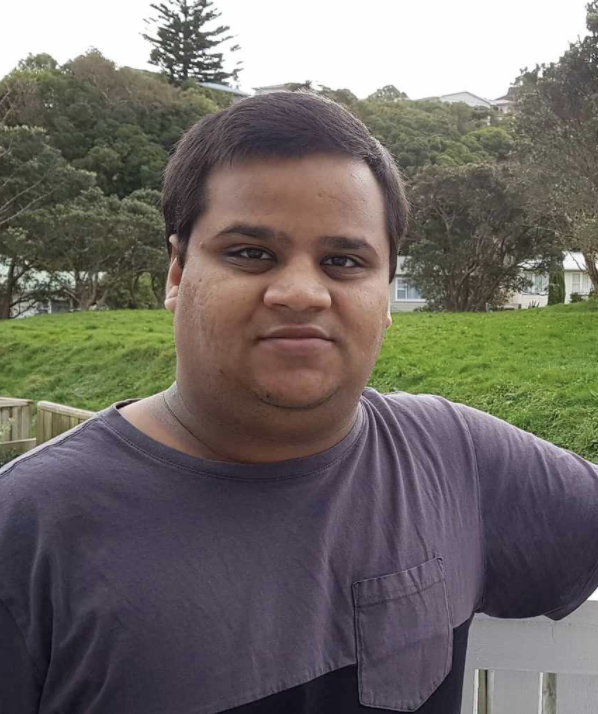
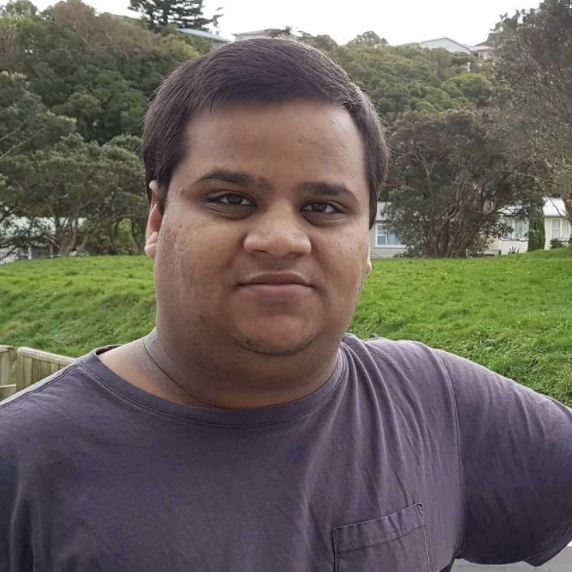
picture square formatting

diff --git a/client/components/Sorted.jsx b/client/components/Sorted.jsx
@@ -39,7 +39,12 @@ const Group = () => {
 
     return (
         <div className="newUsers">
-            {newArray.map((element, inc) => <div id={`newUser${inc}`}><p>{element.name}</p><img src={element.image} /></div>)}
+            {newArray.map((element, inc) => 
+            <div className='nameBox' id={`newUser${inc}`}>
+                <div className= 'faceDiv'>
+                    <img className='faceImage' src={element.image} />
+                </div>
+            <div className = 'nameDiv'>{element.name}</div></div>)}
         </div>
     )
 

diff --git a/client/components/List.jsx b/client/components/List.jsx
@@ -12,7 +12,7 @@ const List = () => {
             <div className='nameBox'>
                 <div className='faceDiv' id={`user${inc}`}>
                     <img className = 'faceImage' src={element.image} />
-                    </div>
+                </div>
                 <div className = 'nameDiv'>
                     {element.name} 
                 
